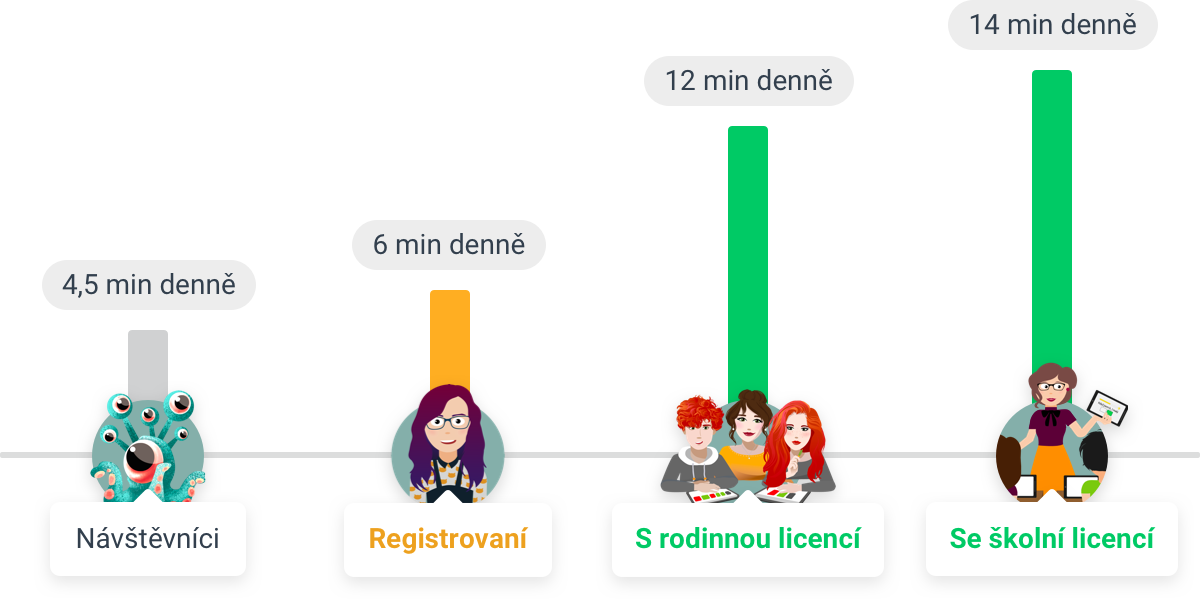
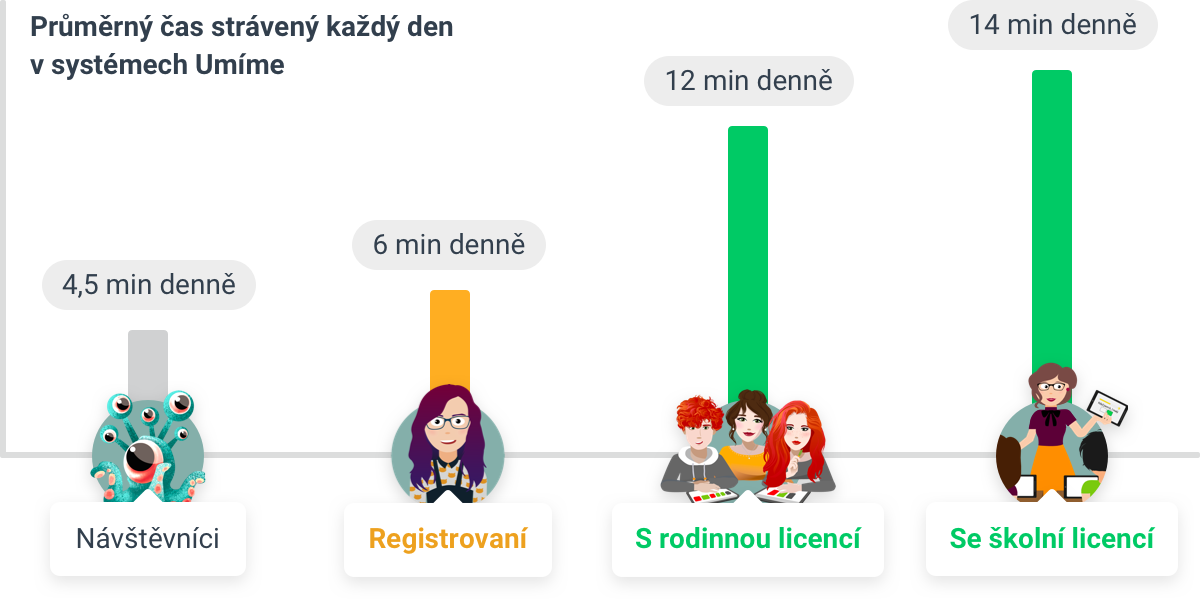
daily limit page update

Changed region(s): [[0.0, 0.0, 0.4008, 0.75]]

diff --git a/docs/daily-limit/daily-limit-3-plain-arguments.html b/docs/daily-limit/daily-limit-3-plain-arguments.html
@@ -290,7 +290,7 @@
             <div class="grid-content">
                 <div class="grid-item-medium-10 grid-item-large-8 grid-item-xlarge-6 grid-item-medium-offset-1 grid-item-large-offset-2 grid-item-xlarge-offset-3">
                     <h2 class="shoutout small-align-center">Plná licence má smysl</h2>
-                    <p class="subheader subheader-tight lead small-align-center">Procvičujte pravidelně bez omezení</p>
+                    <p class="subheader subheader-tight lead small-align-center">S licencí budete každý den procvíčovat déle</p>
                 </div>
                 <div class="grid-item-medium-10 grid-item-large-8 grid-item-xlarge-6 grid-item-medium-offset-1 grid-item-large-offset-2 grid-item-xlarge-offset-3">
                     <div class="picture-container">
@@ -299,103 +299,19 @@
                              alt="Dneska jste tedy zamakali!"
                         />
                     </div>
+                    <!--<p class="small-align-center">Průměrný čas strávený každý den v systémech Umíme</p>-->
                 </div>
                 <div class="grid-item-medium-10 grid-item-large-8 grid-item-xlarge-6 grid-item-medium-offset-1 grid-item-large-offset-2 grid-item-xlarge-offset-3">
-                    <h3 class="shoutout small-align-center">Jen opakování dělá mistra</h3>
-                    <!--<p>Pokud si máte něco zapamatovat, bez opakování to nepůjde.</p>-->
-                    <!--<p>Svou znalost v systému prokážete získáním 4&nbsp;štítů.</p>-->
-                    <!--<p>Pokud si látku zopakujete po měsíci, získáte hvězdu jako potvrzení.</p>-->
-                    <!--<p><a href="#">Zjistit více</a></p>-->
+                    <h2 class="shoutout small-align-center">Proč máme denní limit?</h2>
+                    <p class="subheader subheader-tight lead small-align-center">Proč musím platit za neomezený přístup? 🤔</p>
+                    <p>Na vývoj a provoz výukového systému jsou potřeba finanční prostředky. Web není placený z grantů a <strong>neobsahuje žádné reklamy</strong>, protože reklamy ruší od učení a do výukového systému nepatří.</p>
+                    <p>Váš příspěvek nám dovoluje vyvíjet systémy Umíme ve vysoké kvalitě, dlouhodobě udržitelným způsobem. Zároveň se ujišťujeme, že licence zůstávají dostupné všem. Vaší podpory si velice vážíme!</p>
+                </div>
+                <div class="grid-item-medium-10 grid-item-large-8 grid-item-xlarge-6 grid-item-medium-offset-1 grid-item-large-offset-2 grid-item-xlarge-offset-3">
                     <p class="small-align-center"><a href="#" class="button button-success button-large button-emphasized">Pořídit licenci</a></p>
                 </div>
-                <!--<div class="grid-item-large-8 grid-item-large-offset-2">-->
-                    <!--<hr class="spacious"/>-->
-                <!--</div>-->
             </div>
         </section>
-        <!--<section>
-        <div class="pages">
-            <div class="page">
-                <div class="grid">
-                    <div class="grid-content">
-                        <div class="grid-item-large-8 grid-item-large-offset-2 space-emphasis">
-                            <div class="uncontained">
-                                <p class="shout">Děkuji za super web - už nemusím děti nahánět k procvičování češtiny, občas
-                                    je musím spíš odhánět :)</p>
-                                <p class="shout">Navíc mi to dost usnadňuje domácí vzdělávání syna. Děkuji.</p>
-                                <p>
-                                    <span class="person-mention">
-                                        <span class="dongle">
-                                            <img src="../assets/img/avatar-hipsterka.png" alt="Marcela Chvátilová"/>
-                                        </span>
-                                        <span class="label">
-                                            <strong>Marcela Chvátilová</strong>
-                                        </span>
-                                    </span>
-                                </p>
-                            </div>
-                        </div>
-                    </div>
-                </div>
-            </div>
-    
-            <div class="page">
-                <div class="grid">
-                    <div class="grid-content">
-                        <div class="grid-item-large-8 grid-item-large-offset-2 space-emphasis">
-                            <div class="uncontained">
-                                <p class="shout">Dobrý den, jsem žákyní 6.třídy a velmi se mi líbí váš způsob. Díky vám jsem
-                                    se naučila některá pravidla. :) Chci vám poděkovat.</p>
-                                <p class="shout">Čeština mi z počátku moc nešla ale po pár měsících učení a procvičování na
-                                    této internetové stránce mi opravdu pomohla.</p>
-                                <p class="shout">V poslední době dostávám jedničky (max. 1-) s diktátů. Pan učitel mě chválí
-                                    a je rád že se snažím. Děkuji moc. :)</p>
-                                <p>
-                                    <span class="person-mention">
-                                        <span class="dongle">
-                                            <img src="../assets/img/avatar-luc.png" alt="Karolína Doležalová"/>
-                                        </span>
-                                        <span class="label">
-                                            <strong>Karolína Doležalová</strong><br/>6.B :)
-                                        </span>
-                                    </span>
-                                </p>
-                            </div>
-                        </div>
-                    </div>
-                </div>
-            </div>
-    
-            <div class="page">
-                <div class="grid">
-                    <div class="grid-content">
-                        <div class="grid-item-large-8 grid-item-large-offset-2 space-emphasis">
-                            <div class="uncontained">
-                                <p class="shout">V hodinách českého jazyka využíváme umimecesky.cz v každé hodině. Pro žáky
-                                    je střídání různých činností při opakování pravopisu a gramatiky důležité a on-line
-                                    cvičení představují skvělou alternativu k pracovním sešitům či diktátům. Žáky takové
-                                    procvičování baví a tím pádem se toho také víc naučí.</p>
-                                <p class="shout">Oproti jiným výukovým webům oceňujeme především propracovaný systém tříd a
-                                    zadaných úkolů, které pro učitele tvoří příjemný a komplexní přehled postupu třídy.
-                                    Fandíme celém webu umimeto.org a děkujeme za skvělou spolupráci.</p>
-                                <p>
-                                    <span class="person-mention">
-                                        <span class="dongle">
-                                            <img src="../assets/img/avatar-ucitel.png" alt="Petr Kuba"/>
-                                        </span>
-                                        <span class="label">
-                                            <strong>Petr Kuba</strong><br/>EDUCAnet – SŠ a ZŠ České Budějovice, s.r.o.
-                                        </span>
-                                    </span>
-                                </p>
-                            </div>
-                        </div>
-                    </div>
-                </div>
-            </div>
-        </div>
-    </section>-->
-    
     </div>
     
 

diff --git a/src/pages/partials/daily-limit/daily-limit-arguments-plain.html b/src/pages/partials/daily-limit/daily-limit-arguments-plain.html
@@ -2,7 +2,7 @@
     <div class="grid-content">
         <div class="grid-item-medium-10 grid-item-large-8 grid-item-xlarge-6 grid-item-medium-offset-1 grid-item-large-offset-2 grid-item-xlarge-offset-3">
             <h2 class="shoutout small-align-center">Plná licence má smysl</h2>
-            <p class="subheader subheader-tight lead small-align-center">Procvičujte pravidelně bez omezení</p>
+            <p class="subheader subheader-tight lead small-align-center">S licencí budete každý den procvíčovat déle</p>
         </div>
         <div class="grid-item-medium-10 grid-item-large-8 grid-item-xlarge-6 grid-item-medium-offset-1 grid-item-large-offset-2 grid-item-xlarge-offset-3">
             <div class="picture-container">
@@ -11,17 +11,16 @@
                      alt="Dneska jste tedy zamakali!"
                 />
             </div>
+            <!--<p class="small-align-center">Průměrný čas strávený každý den v systémech Umíme</p>-->
         </div>
         <div class="grid-item-medium-10 grid-item-large-8 grid-item-xlarge-6 grid-item-medium-offset-1 grid-item-large-offset-2 grid-item-xlarge-offset-3">
-            <h3 class="shoutout small-align-center">Jen opakování dělá mistra</h3>
-            <!--<p>Pokud si máte něco zapamatovat, bez opakování to nepůjde.</p>-->
-            <!--<p>Svou znalost v systému prokážete získáním 4&nbsp;štítů.</p>-->
-            <!--<p>Pokud si látku zopakujete po měsíci, získáte hvězdu jako potvrzení.</p>-->
-            <!--<p><a href="#">Zjistit více</a></p>-->
+            <h2 class="shoutout small-align-center">Proč máme denní limit?</h2>
+            <p class="subheader subheader-tight lead small-align-center">Proč musím platit za neomezený přístup? 🤔</p>
+            <p>Na vývoj a provoz výukového systému jsou potřeba finanční prostředky. Web není placený z grantů a <strong>neobsahuje žádné reklamy</strong>, protože reklamy ruší od učení a do výukového systému nepatří.</p>
+            <p>Váš příspěvek nám dovoluje vyvíjet systémy Umíme ve vysoké kvalitě, dlouhodobě udržitelným způsobem. Zároveň se ujišťujeme, že licence zůstávají dostupné všem. Vaší podpory si velice vážíme!</p>
+        </div>
+        <div class="grid-item-medium-10 grid-item-large-8 grid-item-xlarge-6 grid-item-medium-offset-1 grid-item-large-offset-2 grid-item-xlarge-offset-3">
             <p class="small-align-center"><a href="#" class="button button-success button-large button-emphasized">Pořídit licenci</a></p>
         </div>
-        <!--<div class="grid-item-large-8 grid-item-large-offset-2">-->
-            <!--<hr class="spacious"/>-->
-        <!--</div>-->
     </div>
 </section>

diff --git a/src/pages/pages/daily-limit/daily-limit-3-plain-arguments.html b/src/pages/pages/daily-limit/daily-limit-3-plain-arguments.html
@@ -6,6 +6,4 @@
 
     {{> daily-limit-arguments-plain }}
 
-    <!--{{> daily-limit-testimonials-c }}-->
-
 </div>
